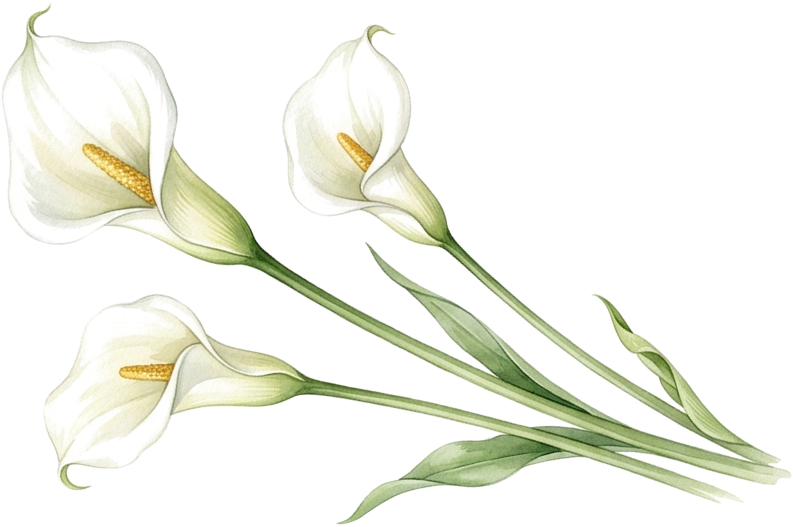
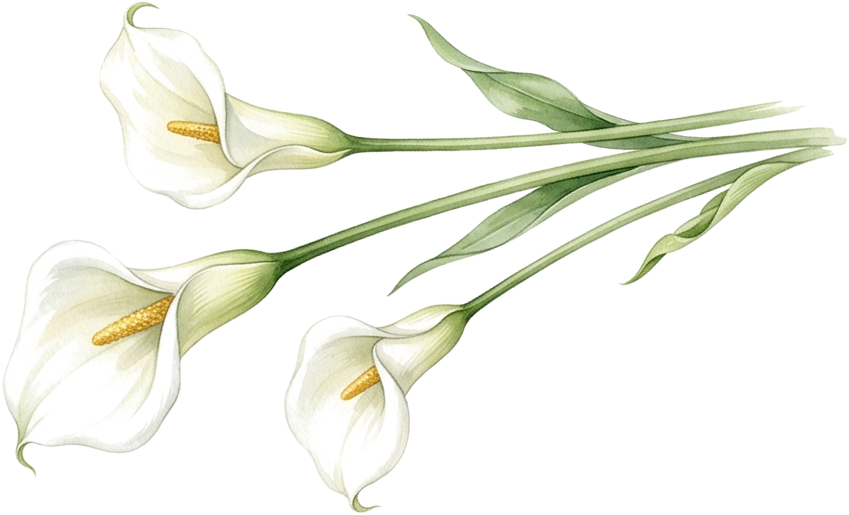
Bajar flores de calas a bottom -69px

diff --git a/app/static/css/style.css b/app/static/css/style.css
@@ -997,8 +997,8 @@ body.envelope-locked{
 /* 1. Flores Calas Blancas que emergen detrás de la tarjeta */
 .regalo-calas-tucked{
   position:absolute;
-  bottom:-68px;
-  left:24px;
+  bottom:-69px;
+  left:26px;
   width:195px;
   z-index:1;
   pointer-events:none;
